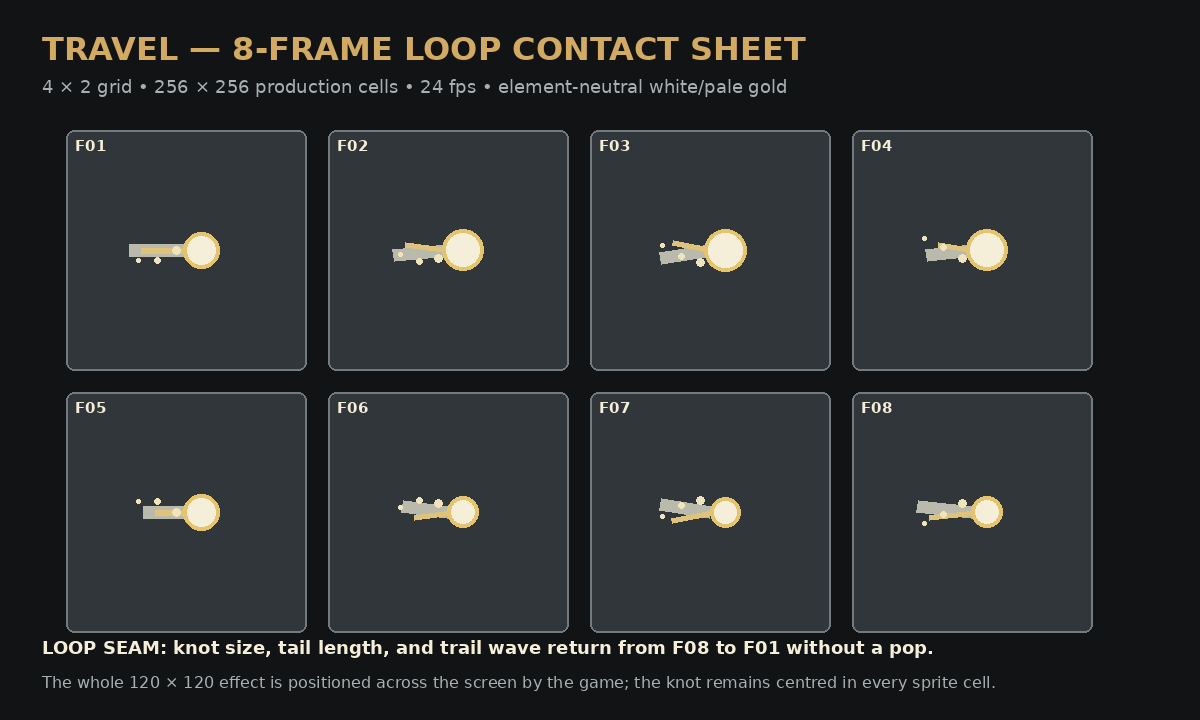
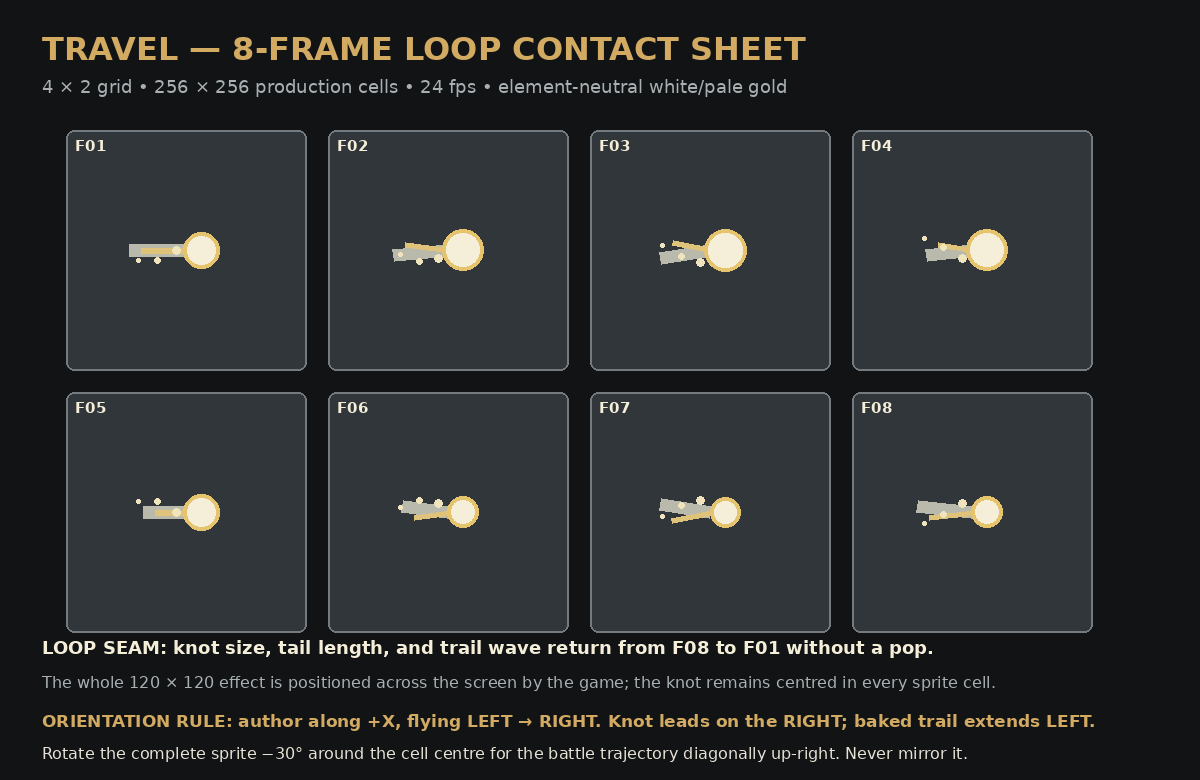
a

diff --git a/shattermancer_spell_fx_contact_sheet_review_01/docs/review_notes.md b/shattermancer_spell_fx_contact_sheet_review_01/docs/review_notes.md
@@ -5,7 +5,7 @@ This package is the required first review gate for the Shattermancer spell-effec
 ## Proposed motion
 
 - **Charge:** gather → tighten → pressure peak → release breath → reset. Frames 12 and 1 share the same small-core and three-mote configuration so the loop can close invisibly.
-- **Travel:** the knot stays centered in its cell while its tail length and wave cycle. Frames 8 and 1 match.
+- **Travel:** the source sprite is authored horizontally along +X, flying left-to-right. The knot leads on the right and the baked trail extends left. Rotate the complete sprite −30° around the cell center to obtain the battle's diagonally up-right trajectory; never mirror it. The knot stays centered while tail length and wave cycle, and frames 8 and 1 match.
 - **Element impact / Fracture:** contact, compression, fast radial bite, one held peak, outward substance fragments, then full dissipation.
 - **Fizzle:** loses cohesion early, drains toward grey, sags, sputters, and falls. No flash, no ring, and no satisfying peak.
 - **Shatter:** compresses into a central plane, cracks it, throws unmistakable shards, and clears completely.

diff --git a/shattermancer_spell_fx_contact_sheet_review_01/docs/frame_breakdown.md b/shattermancer_spell_fx_contact_sheet_review_01/docs/frame_breakdown.md
@@ -6,7 +6,7 @@
 | Charge | 4–6 | Motes coalesce; core grows; orbit tightens. |
 | Charge | 7–9 | Pressure reaches a held peak and breathes outward. |
 | Charge | 10–12 | Core relaxes to the starting size and particle spacing for the loop seam. |
-| Travel | 1–8 | Central neutral knot remains fixed; tail length and wave complete one seamless cycle. |
+| Travel | 1–8 | Authored horizontally left-to-right: knot leads on the right, trail extends left. Rotate the complete sprite −30° around the cell center for the up-right battle path. Tail length and wave complete one seamless cycle. |
 | Element impact | 1–3 | Immediate contact and compression. |
 | Element impact | 4–8 | Radial elemental burst grows to a one-beat peak. |
 | Element impact | 9–14 | Substance fragments separate, dim, and clear to empty. |

diff --git a/shattermancer_spell_fx_contact_sheet_review_01/00_READ_ME_FIRST.md b/shattermancer_spell_fx_contact_sheet_review_01/00_READ_ME_FIRST.md
@@ -9,6 +9,7 @@ This package contains three rough contact sheets and **no finished production fr
 3. Casting treatments are keyed to exactly six elements—fire, water, nature, lightning, ice, and shadow. There are no discipline-specific animation variants.
 4. Charge sheets contain only the centered magical effect. They contain no painted staff and no portion of the wright.
 5. `fx_hitflash.png` is an element-neutral radial contact flare, not a creature silhouette.
+6. `fx_travel_bolt.png` is authored horizontally flying left-to-right: the knot leads on the right and its baked trail extends left. Rotate the complete sprite −30° around the cell center for the battle's diagonally up-right path. Never mirror it.
 
 ## Revised production inventory
 
